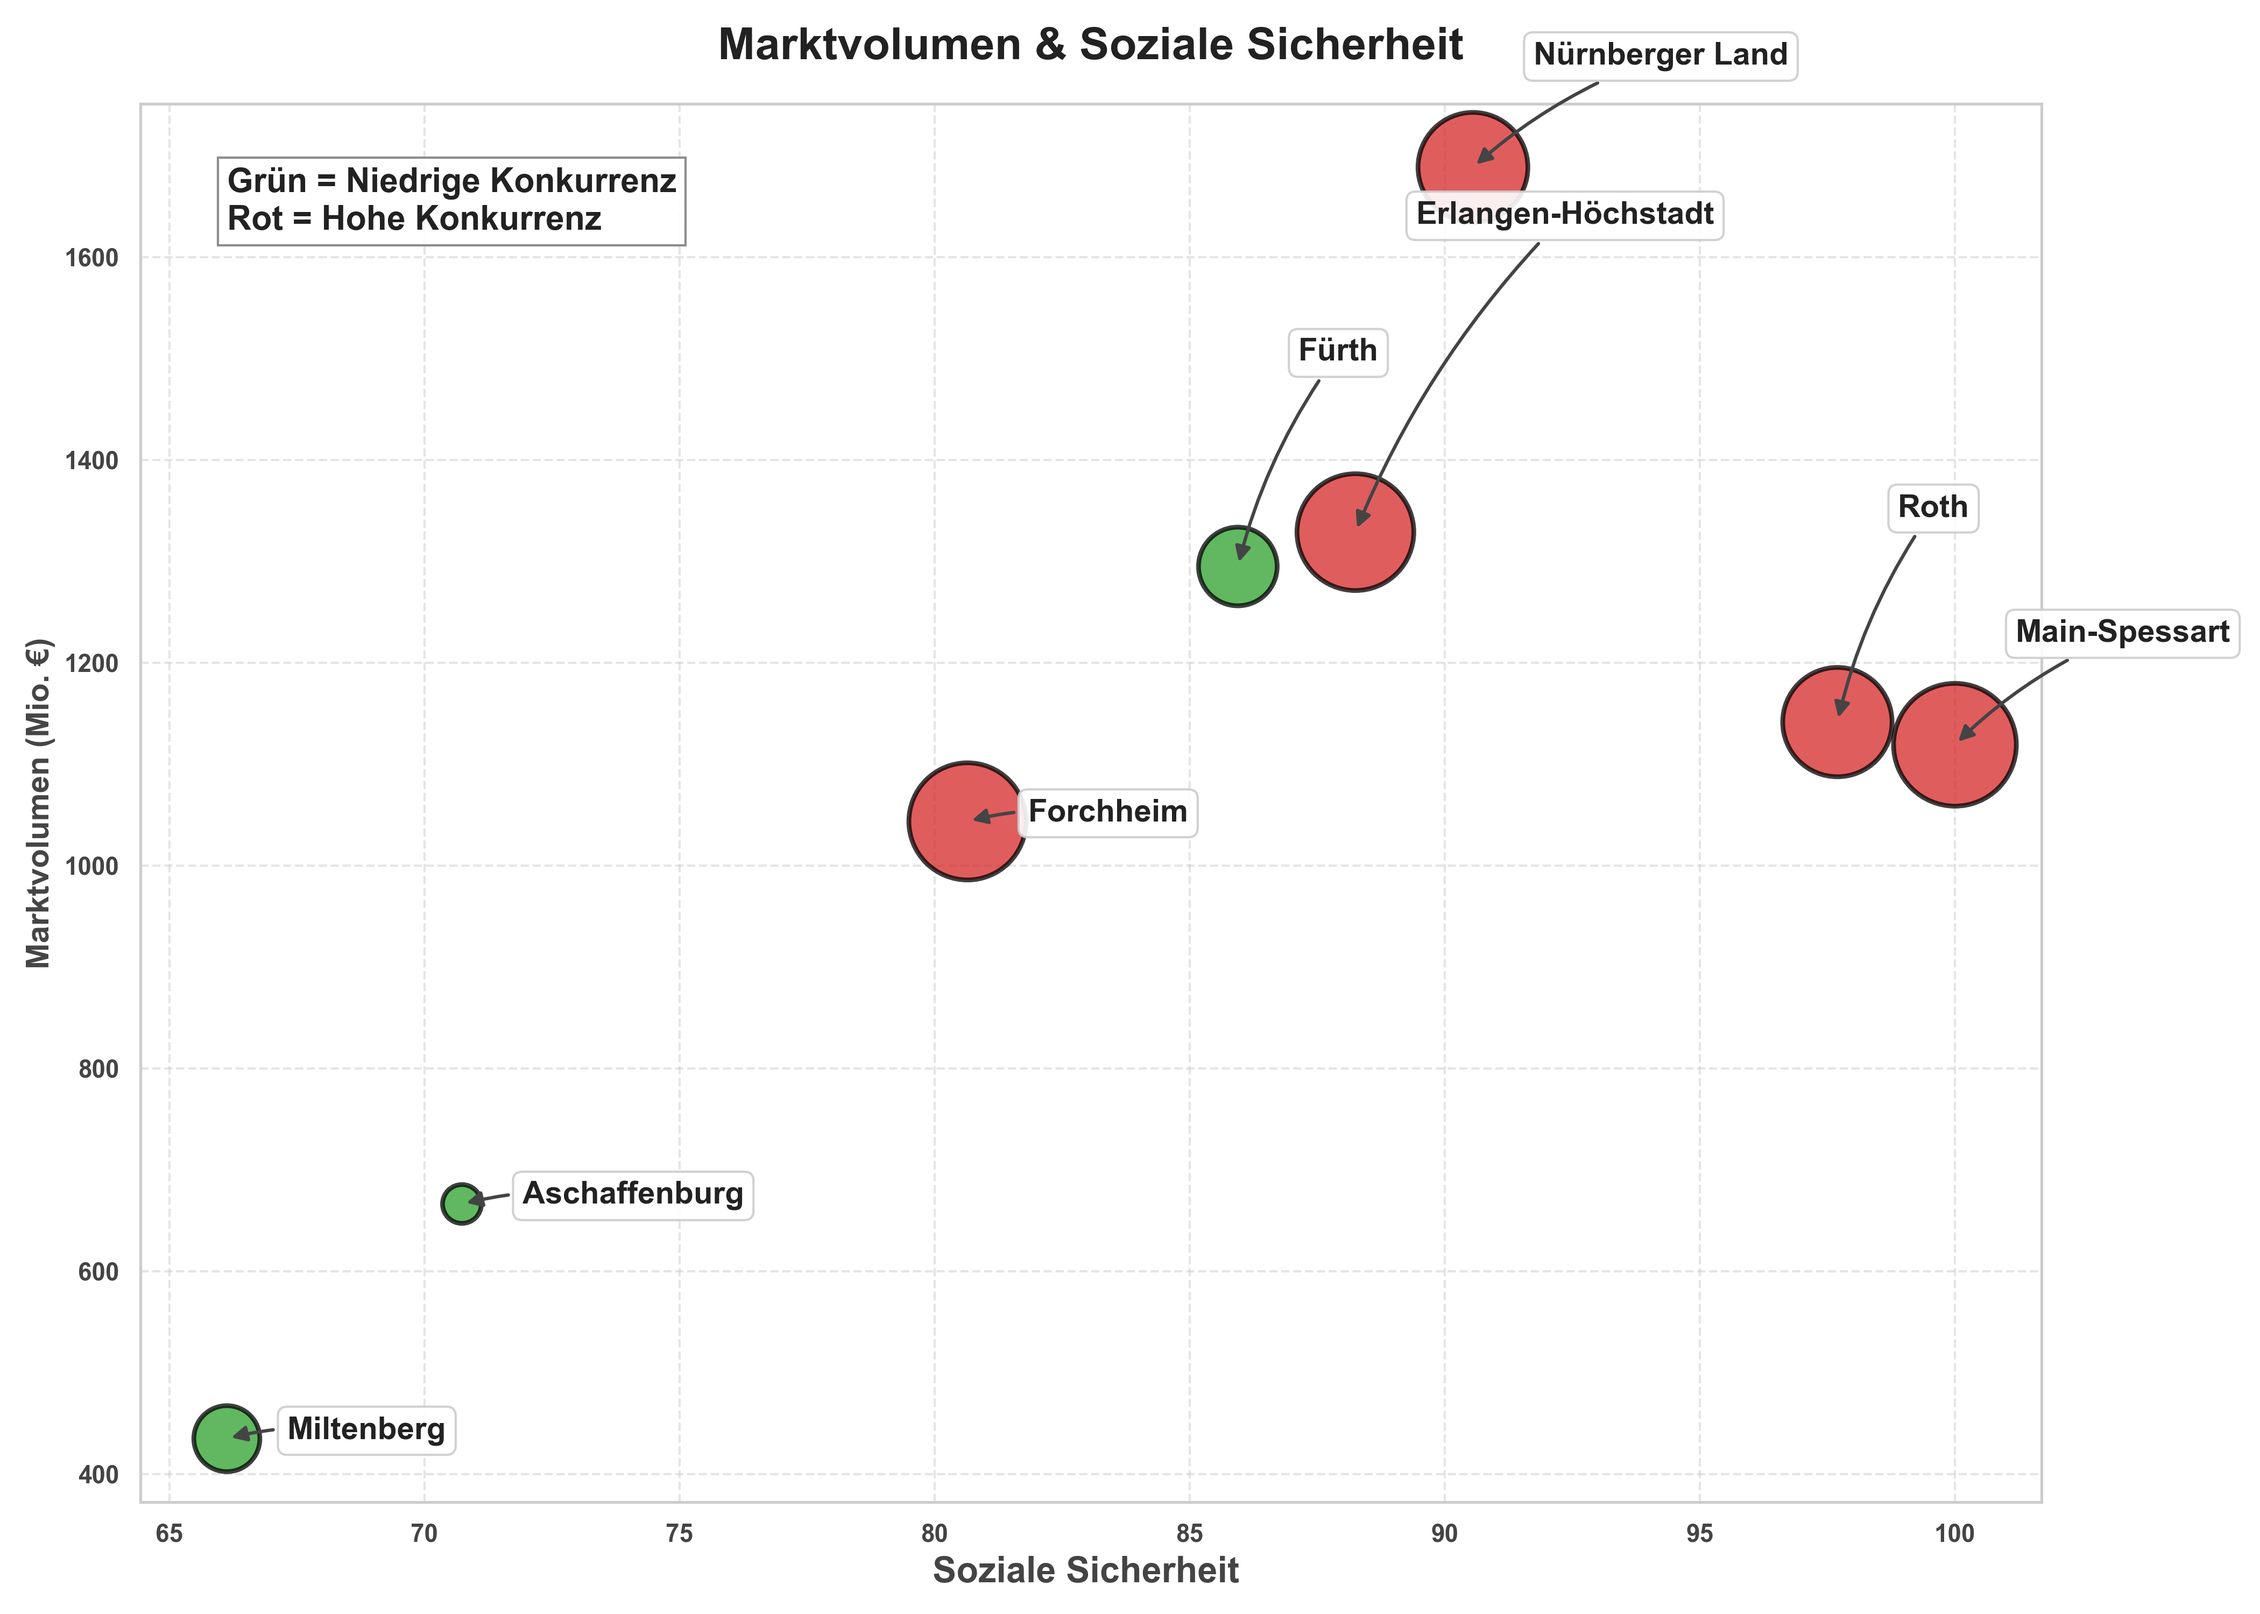
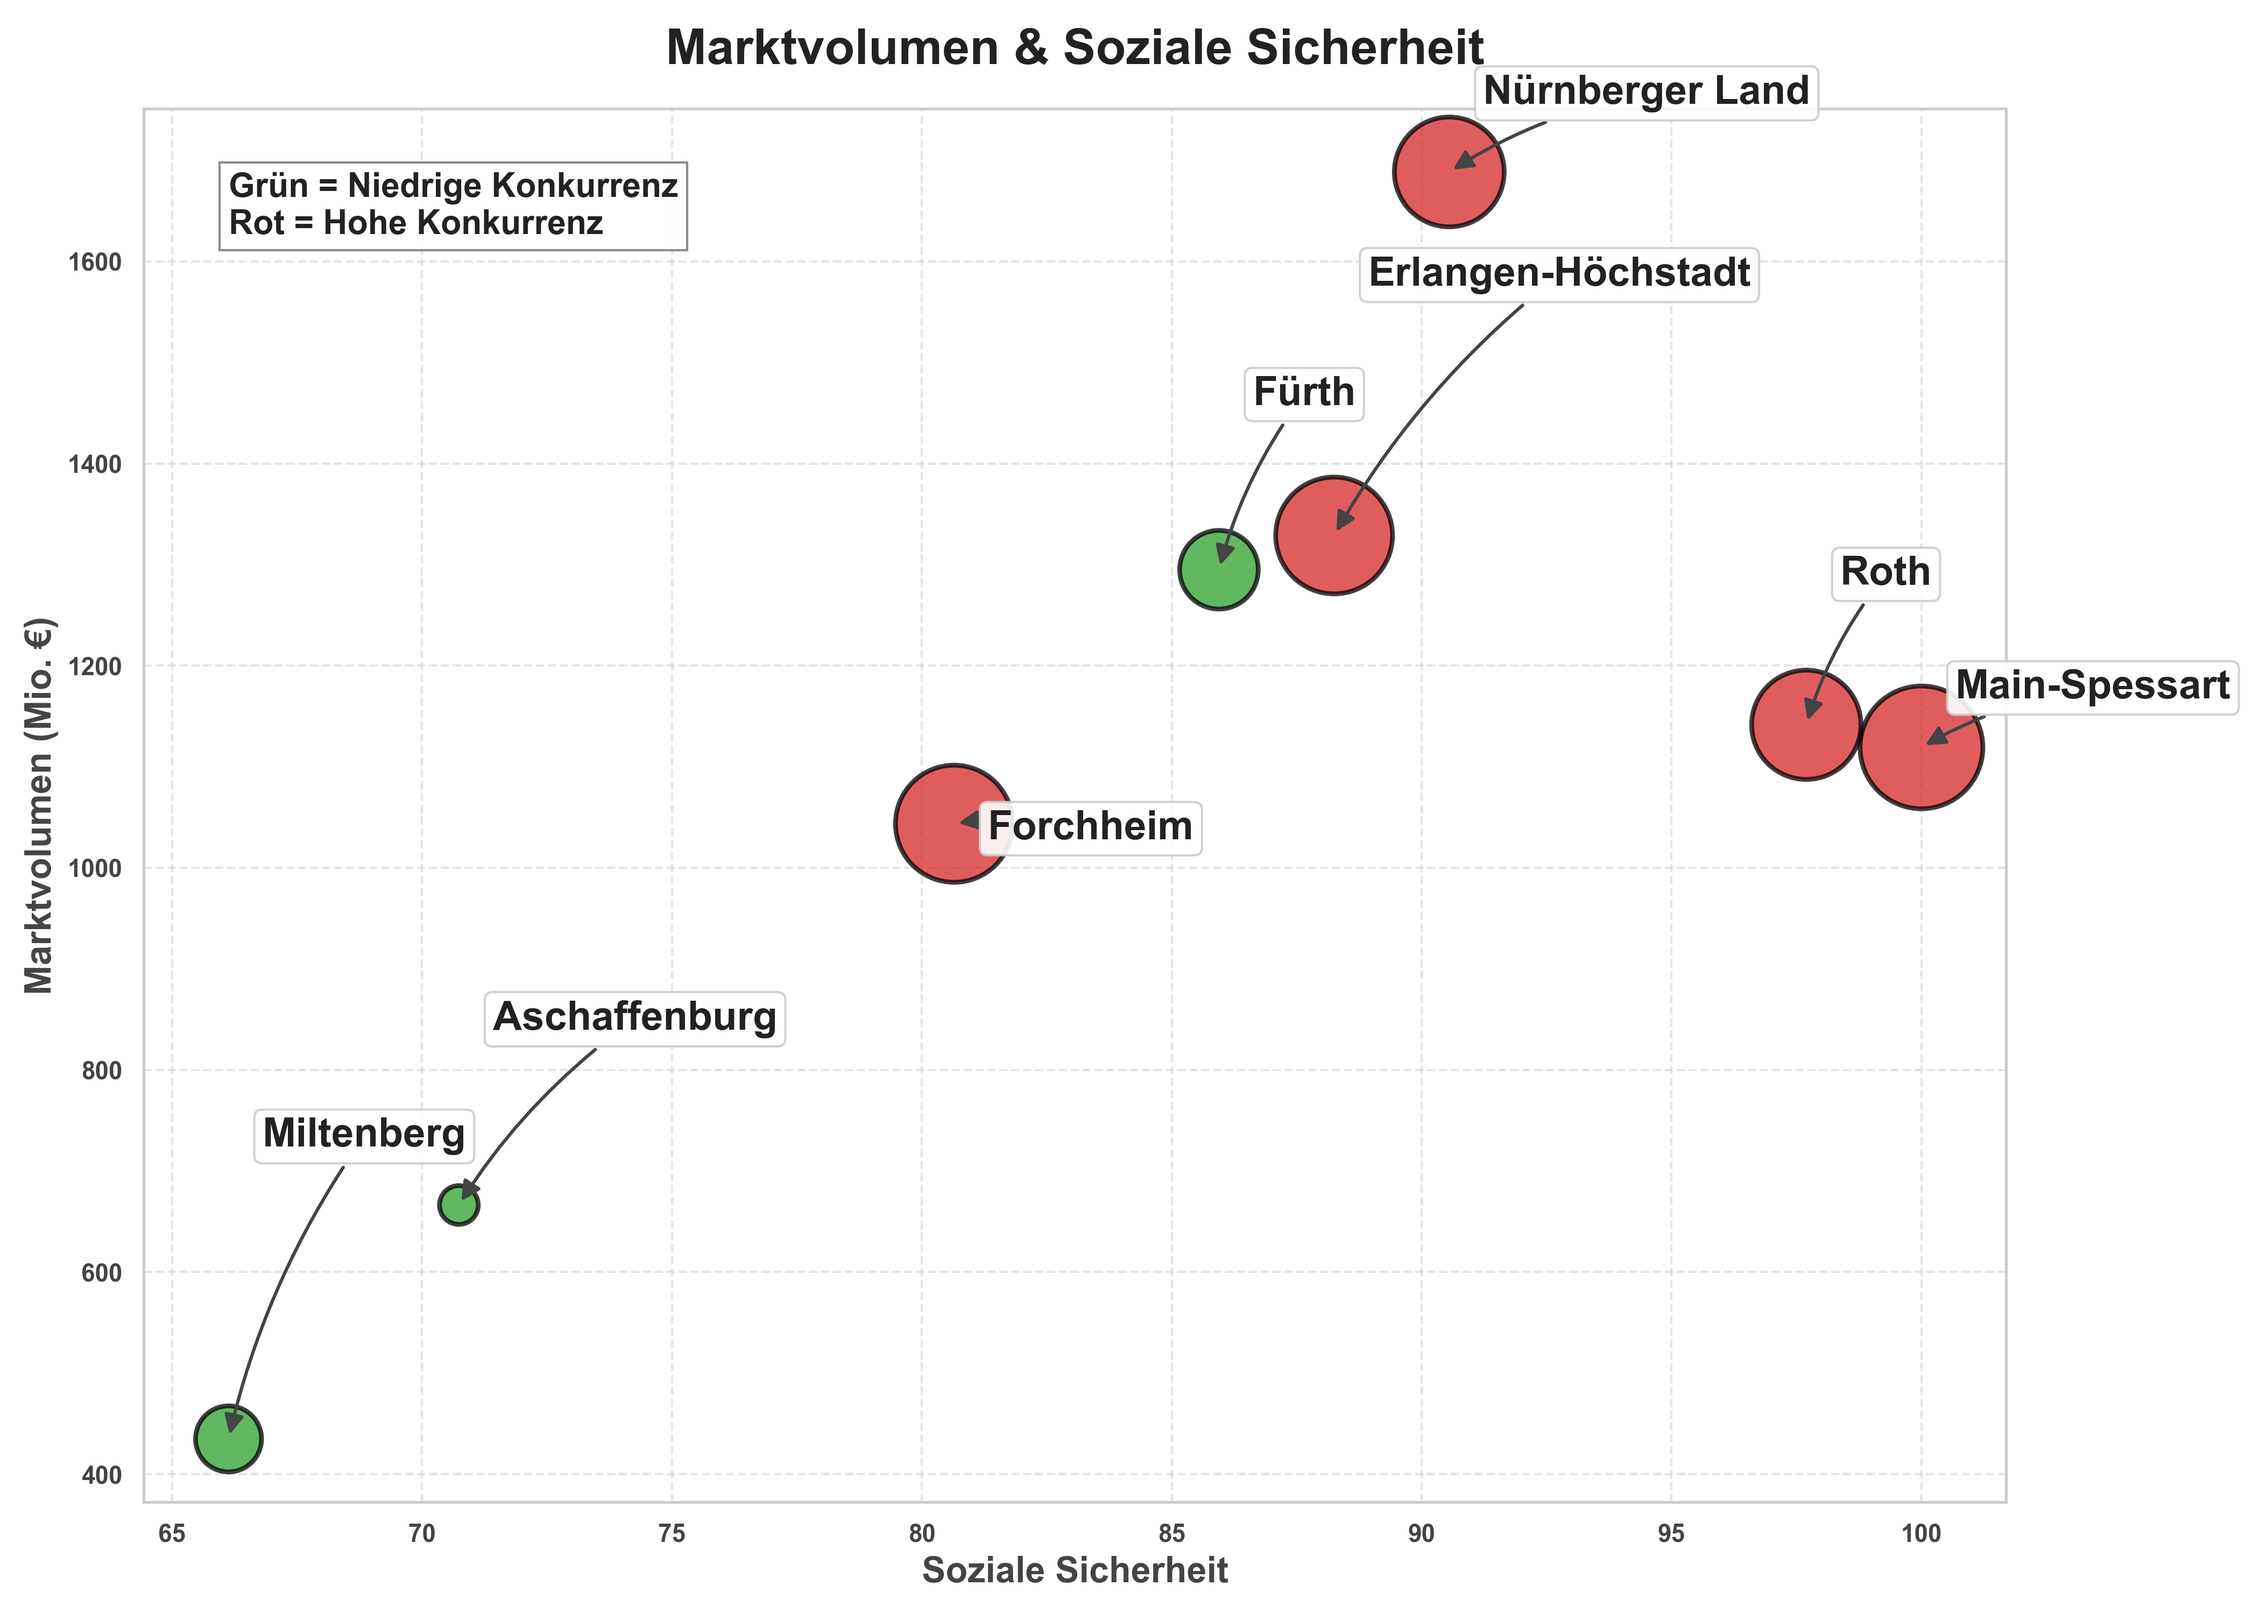
changes

diff --git a/neueIdee.py b/neueIdee.py
@@ -4,6 +4,7 @@ import matplotlib.pyplot as plt
 import seaborn as sns
 from pathlib import Path
 from matplotlib.lines import Line2D
+from adjustText import adjust_text  # Importieren
 
 # --- 1. SETUP & DESIGN ---
 output_dir = Path("figures_final_consistent_top8")
@@ -204,7 +205,7 @@ for i, row in plot_radar.iterrows():
 
 
 # 5. Titel & Achsen
-plt.title(f"SÄTTIGUNGS-RADAR: POTENZIAL-ANALYSE (TOP 8)", pad=25, fontsize=18)
+plt.title(f"BANKDICHTE", pad=25, fontsize=20)
 
 # Beschriftung oben/unten
 plt.xlabel("← NIEDRIGE BANKDICHTE (HUNGRIG/GRÜN)        |       HOHE BANKDICHTE (GESÄTTIGT/ROT) →",
@@ -224,7 +225,7 @@ plt.text(avg_ew_pro_bank, -0.8, f"Ø {int(avg_ew_pro_bank)}", ha='center', fontw
 
 plt.grid(axis='x', alpha=0.5, linestyle='--')
 plt.tight_layout()
-plt.savefig(output_dir / "1_Saettigung_Absolute.png", dpi=300)
+plt.savefig(output_dir / "1_Bankdichte.png", dpi=300)
 
 # === PLOT 2: GOLDADER-BUBBLES (CUSTOM FARBEN: GRÜN/ROT) ===
 plt.figure(figsize=(14, 10))
@@ -256,15 +257,15 @@ sns.scatterplot(
     alpha=0.75, edgecolor="black"
 )
 
-# --- Beschriftung (Identisch wie vorher) ---
+# --- Beschriftung  ---
 sorted_points = plot_data.sort_values("Marktvolumen_Mio")
 occupied_y = []
 
 for i, row in sorted_points.iterrows():
     x, y = row.Score_Security, row.Marktvolumen_Mio
     name = row.Name
-    text_x = x + (plot_data["Score_Security"].max() - plot_data["Score_Security"].min()) * 0.035
-    text_y = y
+    text_x = x + (plot_data["Score_Security"].max() - plot_data["Score_Security"].min()) * 0.02
+    text_y = 0.5 * y + 0.3 * plot_data["Marktvolumen_Mio"].max()
 
     collision = True
     while collision:
@@ -277,14 +278,14 @@ for i, row in sorted_points.iterrows():
 
     plt.annotate(
         name, xy=(x, y), xytext=(text_x, text_y), textcoords='data',
-        fontsize=14, weight='bold', color='#222222',
+        fontsize=18, weight='bold', color='#222222',
         arrowprops=dict(arrowstyle="-|>", color='#444444', lw=1.5, connectionstyle="arc3,rad=0.1"),
-        bbox=dict(boxstyle="round,pad=0.3", fc="white", ec="#cccccc", alpha=0.9)
+        bbox=dict(boxstyle="round,pad=0.2", fc="white", ec="#cccccc", alpha=0.9)
     )
 
-plt.title("DIE GOLDADER-ANALYSE: DIE TOP 8", pad=20, fontsize=20)
-plt.xlabel("Soziale Sicherheit ", fontsize=16, weight='bold')
-plt.ylabel("Marktvolumen (Mio. €)", fontsize=14, weight='bold')
+plt.title("Marktvolumen & Soziale Sicherheit", pad=20, fontsize=22)
+plt.xlabel("Soziale Sicherheit", fontsize=16, weight='bold')
+plt.ylabel("Marktvolumen (Mio. €)", fontsize=16, weight='bold')
 plt.grid(True, linestyle='--', alpha=0.5)
 
 # Kleiner Hinweis zur Legende im Plot
@@ -292,8 +293,10 @@ plt.text(plot_data["Score_Security"].min(), plot_data["Marktvolumen_Mio"].max(),
          "Grün = Niedrige Konkurrenz\nRot = Hohe Konkurrenz",
          ha='left', va='top', fontsize=15, bbox=dict(facecolor='white', alpha=0.9, edgecolor='gray'))
 
+
+
 plt.tight_layout()
-plt.savefig(output_dir / "2_Goldader_GreenRed.png", dpi=300)
+plt.savefig(output_dir / "2_Markvolumen_Sicherheit.png", dpi=300)
 
 # === PLOT 3: HEATMAP (MIT FARBEN AUS PLOT 4a) ===
 from matplotlib.colors import LinearSegmentedColormap
@@ -340,12 +343,12 @@ for i, col_name in enumerate(hm_data.columns):
         annot_kws={"size": 13, "weight": "bold"}
     )
 
-plt.title("DIE CHAMPIONS (TOP 8): STÄRKEN-PROFIL NACH KATEGORIEN", pad=20, fontsize=18)
+plt.title("STÄRKEN-PROFILE NACH KATEGORIEN", pad=20, fontsize=18)
 plt.ylabel("")
 plt.xticks(fontsize=15, weight='bold')
 plt.yticks(fontsize=14, weight='bold', rotation=0)
 plt.tight_layout()
-plt.savefig(output_dir / "3_Scorecard_Colored.png", dpi=300)
+plt.savefig(output_dir / "3_Stärken_Profil.png", dpi=300)
 
 # === PLOT 4a: DNA DES ERFOLGS (SYNCHRON MIT HEATMAP) ===
 plt.figure(figsize=(14, 9))
@@ -455,7 +458,7 @@ plt.legend(
 )
 
 plt.tight_layout()
-plt.savefig(output_dir / "4a_Stacked_Bar_HeatmapMatch.png", dpi=300)
+plt.savefig(output_dir / "4a_Gesamt_Score_Kateg.png", dpi=300)
 
 # === PLOT 4b: REALITÄTS-CHECK (LOGIK GEDREHT: VIEL SERVICE = GUT) ===
 plt.figure(figsize=(12, 9))
@@ -497,13 +500,15 @@ for i, row in plot_data_4b.iterrows():
         colors_nachher.append('#d62728') # Rot (Abzug)
 
 # 3. PLOTTEN
-plt.hlines(y=my_range, xmin=plot_data_4b['Index_Nachher'], xmax=plot_data_4b['Index_Vorher'], color='grey', alpha=0.4, linewidth=3)
-plt.scatter(plot_data_4b['Index_Vorher'], my_range, color='grey', alpha=0.5, s=100, label='Potenzial (Datenbasis)')
-plt.scatter(plot_data_4b['Index_Nachher'], my_range, c=colors_nachher, alpha=1, s=150, zorder=5)
+plt.hlines(y=my_range, xmin=plot_data_4b['Index_Nachher'], xmax=plot_data_4b['Index_Vorher'],
+           color='grey', alpha=0.4, linewidth=2.5)
+plt.scatter(plot_data_4b['Index_Vorher'], my_range, color='grey', alpha=0.65, s=200,
+            label='Score ohne Einberechnung', zorder=4)
+plt.scatter(plot_data_4b['Index_Nachher'], my_range, c=colors_nachher, alpha=0.65, s=200, zorder=5)
 
 # Legende (angepasst an neue Logik)
-plt.scatter([], [], c='#2ca02c', s=150, label='Bonus (Gute Versorgung / Viele Banken)')
-plt.scatter([], [], c='#d62728', s=150, label='Strafe (Schlechte Versorgung / Wenig Banken)')
+plt.scatter([], [], c='#2ca02c', s=200, label='Bonus (Schlechte Versorgung / Wenig Banken)')
+plt.scatter([], [], c='#d62728', s=200, label='Strafe (Gute Versorgung / Viele Banken)')
 
 # Pfeile
 for i in range(len(plot_data_4b)):
@@ -512,24 +517,25 @@ for i in range(len(plot_data_4b)):
         plt.annotate('',
                      xy=(row['Index_Nachher'], i+1),
                      xytext=(row['Index_Vorher'], i+1),
-                     arrowprops=dict(arrowstyle='->', color='black', lw=1.5))
+                     arrowprops=dict(arrowstyle='-> ', color='black', lw=2.5))
 
-plt.yticks(my_range, plot_data_4b['Name'], fontsize=12, fontweight='bold', color='#222222')
-plt.title("DER REALITÄTS-CHECK: PUNKTZAHL NACH SERVICE-DICHTE", pad=20, fontsize=18)
-plt.xlabel("Gesamt-Score ", fontsize=12, fontweight='bold')
-plt.legend(loc='lower right', frameon=True, fontsize=10)
+plt.yticks(my_range, plot_data_4b['Name'], fontsize=13, fontweight='bold', color='#222222')
+plt.title("FINALES ERGEBNIS: PUNKTZAHL NACH INTEGRIERUNG DER BANKDICHTE", pad=20, fontsize=18)
+plt.xlabel("Gesamt-Score ", fontsize=15, fontweight='bold')
+plt.legend(loc='lower right', frameon=True, fontsize=15)
 plt.grid(axis='x', linestyle='--', alpha=0.5)
 
 # Text unten
 plt.text(
     x=0.02, y=0.98,  # Position: 2% von links, 98% von unten
-    s=f"Referenz: Ø {ref_avg} Einwohner pro Bank.\n• Weniger Ew/Bank (< {ref_avg}) = Hohe Dichte = Bonus (Grün)\n• Mehr Ew/Bank (> {ref_avg}) = Niedrige Dichte = Strafe (Rot)",
+    s=f"Referenz: Ø {ref_avg} Einwohner pro Bank.\n• (< {ref_avg}) = Hohe Dichte = Bonus (Grün)"
+      f"\n• (> {ref_avg}) = Niedrige Dichte = Strafe (Rot)",
     transform=plt.gca().transAxes,  # WICHTIG: Bezieht sich auf den Rahmen des Diagramms
     ha='left', va='top',            # Ankerpunkt der Box ist oben links
-    fontsize=10,
+    fontsize=16,
     bbox=dict(facecolor='white', alpha=0.8, edgecolor='gray'),
     zorder=20                       # Stellt sicher, dass es über den Linien liegt
 )
 
 plt.tight_layout()
-plt.savefig(output_dir / "4b_BonusMalus_ServiceLogic.png", dpi=300)
+plt.savefig(output_dir / "4b_Finaler_Score_Bankdichte.png", dpi=300)
